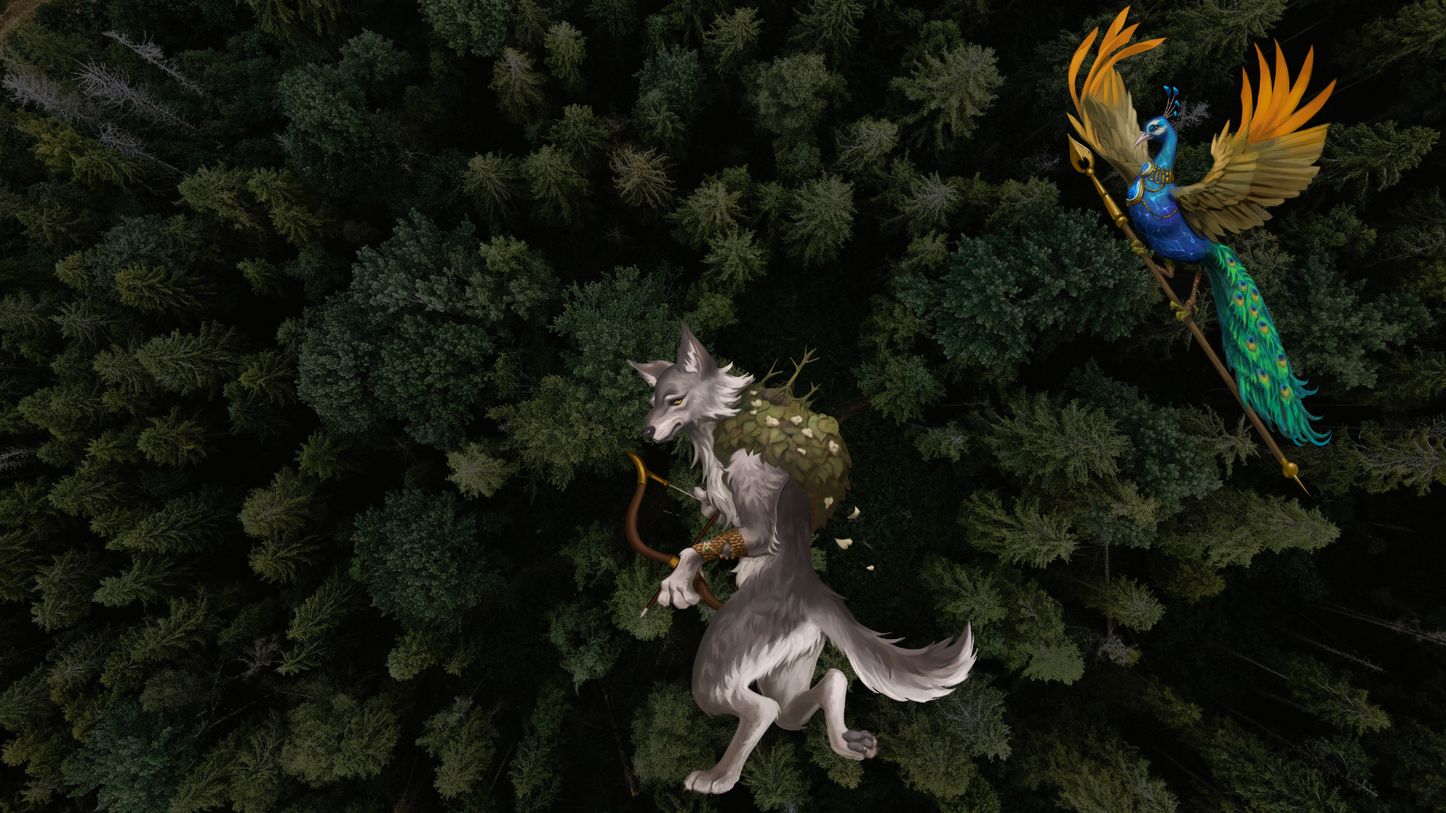
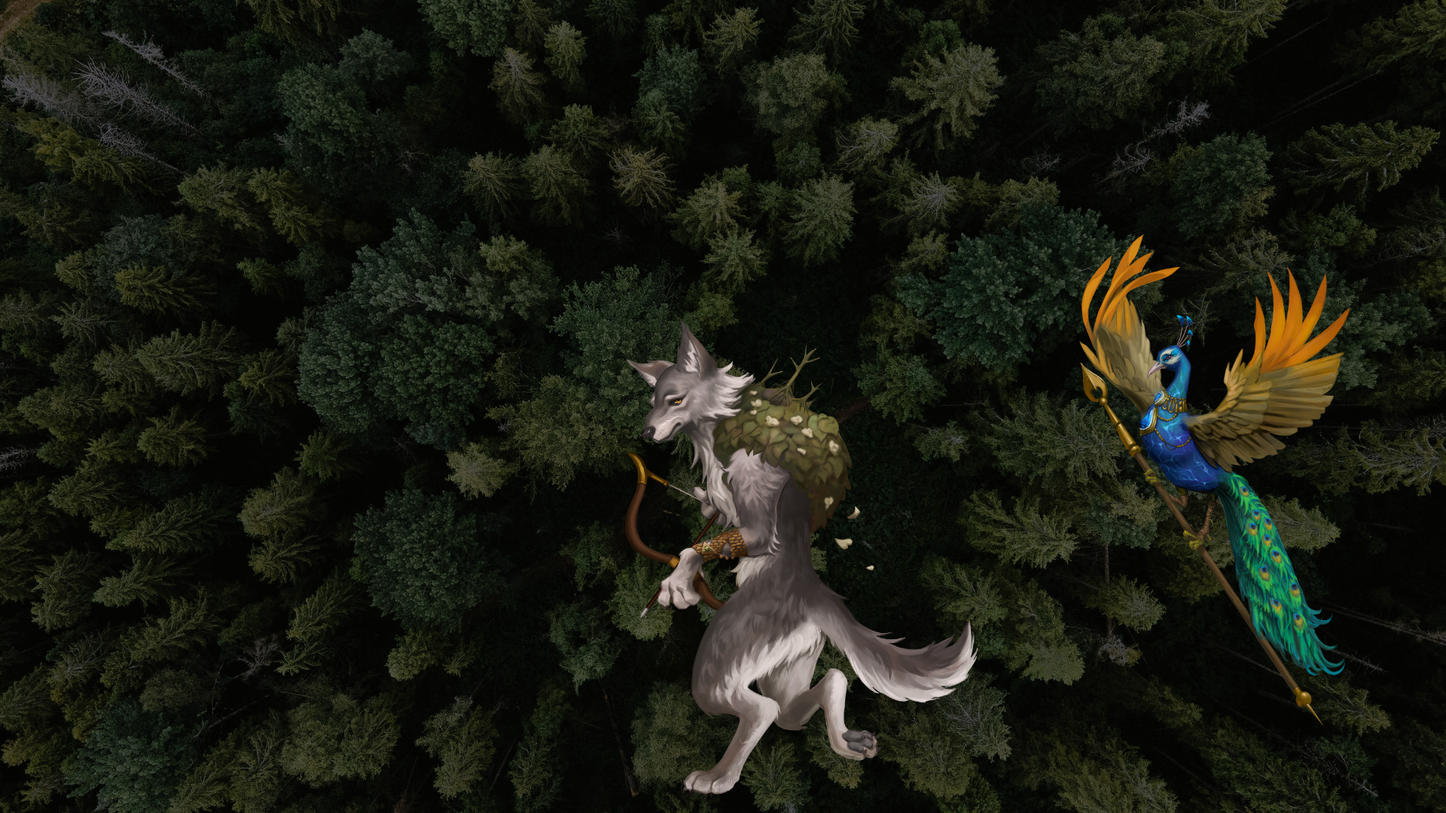
fixed peacock positioning and footer

Changed region(s): [[0.7188, 0.0, 0.9375, 0.8861]]

diff --git a/src/components/Footer.tsx b/src/components/Footer.tsx
@@ -26,7 +26,7 @@ export function Footer() {
           textShadow: "0 0 16px rgba(231,170,81,0.25)",
         }}
       >
-        Mystwood<span style={{ color: "#7aaa8a" }}>Games</span>
+        Mystwood Games
         <sup style={{ fontSize: "0.5em", verticalAlign: "super" }}>™</sup>
       </div>
 
